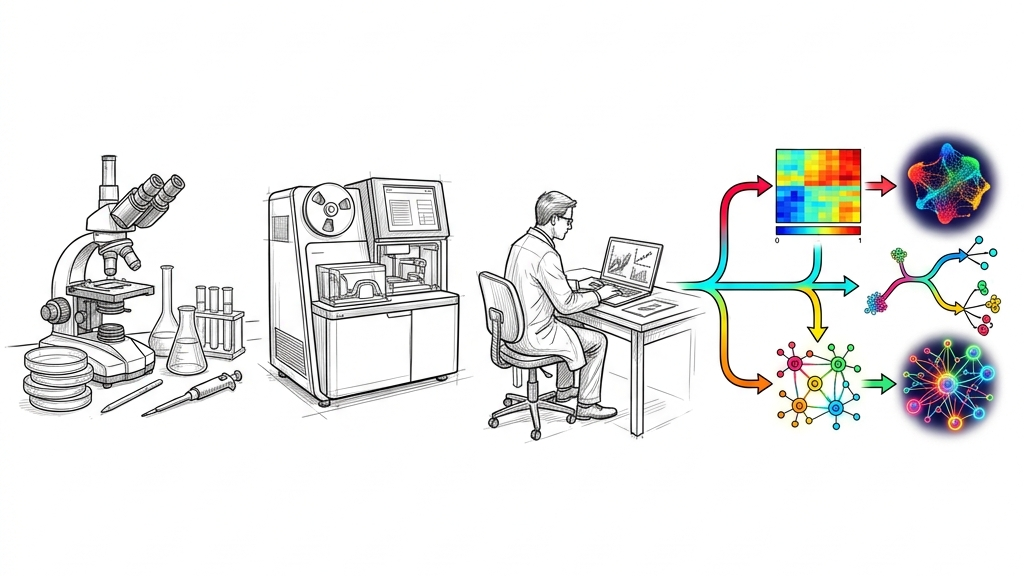
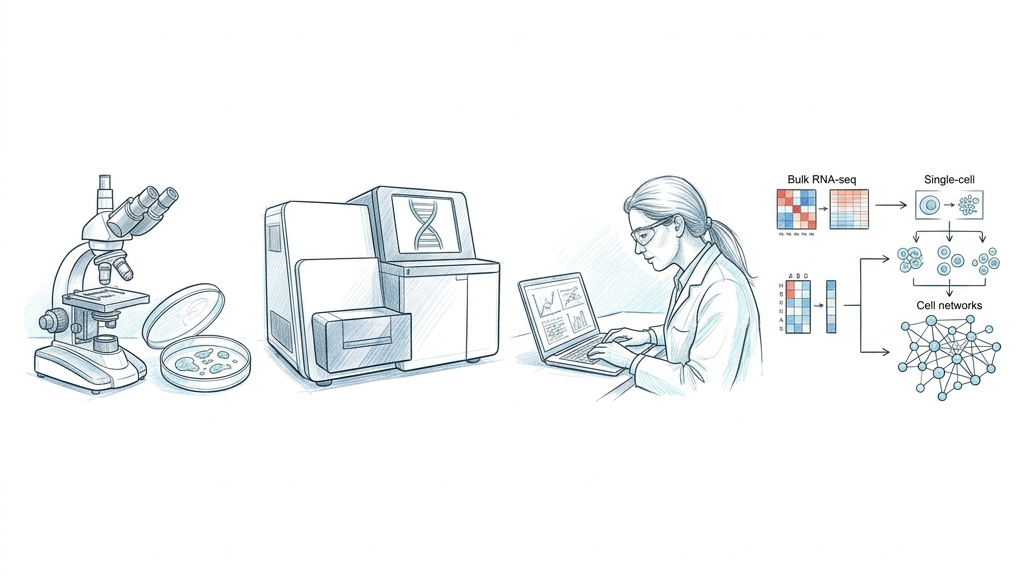
style: increase hero section height to fully reveal background and apply cohesive sketch colors

Changed region(s): [[0.0, 0.2188, 1.0, 0.7812]]

diff --git a/style.css b/style.css
@@ -61,7 +61,8 @@ header {
 /* ── Hero Section (Home) ─────────────────── */
 .hero-section {
     background: linear-gradient(to right, rgba(255, 255, 255, 0.1) 0%, rgba(255, 255, 255, 0.85) 30%, rgba(255, 255, 255, 0.85) 70%, rgba(255, 255, 255, 0.1) 100%), url('images/hero-bg.png') center/cover no-repeat;
-    padding: 80px 0 90px;
+    padding: 160px 0 170px;
+    min-height: 500px;
     text-align: center;
     position: relative;
     overflow: hidden;
